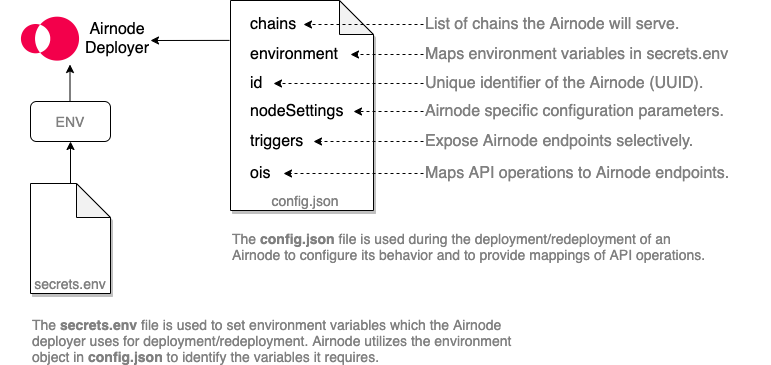
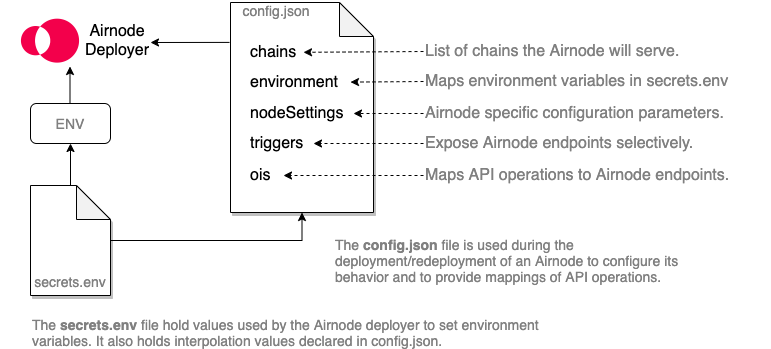
Change clients and requester: Issue 94

diff --git a/docs/next/grp-providers/tutorial/airnode-starter.md b/docs/next/grp-providers/tutorial/airnode-starter.md
@@ -10,9 +10,10 @@ title: Airnode starter
 
 > A starter project for deploying an Airnode and making requests to it
 
-<Todo>
-<p>This doc is not usable at this time. Waiting on the updated dev README.md. This doc is out of sync with the flow of pre-alpha which probably has a better flow.</p>
-</Todo>
+<Fix>
+<p>This doc is not usable at this time. Waiting on the updated dev README.md. This doc is out of sync with the flow of pre-alpha which probably has a better flow.
+</p>
+</Fix>
 
 See the code [here](https://github.com/api3dao/airnode-starter/tree/pre-alpha)
 
@@ -170,42 +171,41 @@ Otherwise, it will use the `airnodeId` of the Airnode that we have deployed give
 Note that the `endpointId` will be the same either way because it is [derived from the OIS and endpoint name](https://api3dao.github.io/api3-docs/pre-alpha/protocols/request-response/endpoint.html#endpointid).
 
 ### Create a requester
-
-Run the following to create an on-chain [requester](https://api3dao.github.io/api3-docs/pre-alpha/protocols/request-response/requester.html) record:
+<Fix>This goes away.</Fix>
+~~Run the following to create an on-chain [requester](https://api3dao.github.io/api3-docs/pre-alpha/protocols/request-response/requester.html) record:~~
 ```sh
 npm run create-requester
 ```
 
-You can use this requester denoted with an index in other projects as well.
-Note that `requesterIndex` is chain-specific, so you will have to create another requester record on other chains.
+~~You can use this requester denoted with an index in other projects as well.
+Note that `requesterIndex` is chain-specific, so you will have to create another requester record on other chains.~~
 
-### Deploy the client contract
+### Deploy the requester contract
 
-Run the following to deploy `ExampleClient.sol`:
+Run the following to deploy `ExampleRequester.sol`:
 ```sh
-npm run deploy-client
+npm run deploy-requester
 ```
 
-### Endorse the client
+### Sponsor the requester
 
-Run the following to [endorse](https://api3dao.github.io/api3-docs/pre-alpha/protocols/request-response/endorsement.html) your deployed [client](https://api3dao.github.io/api3-docs/pre-alpha/protocols/request-response/client.html) contract using the requester you have created:
+Run the following to [sponsor](../../grp-developers/requesters-sponsors.md) your deployed [requester](../../grp-developers/requesters-sponsors.md) contract using the requester you have created:
 ```sh
-npm run endorse-client
+npm run sponsor-requester
 ```
 
-### Derive and fund the designated wallet
+### Derive and fund the sponsor wallet
 
-First run the following to derive the [designated wallet](https://api3dao.github.io/api3-docs/pre-alpha/protocols/request-response/designated-wallet.html) for the provider–requester pair:
+First run the following to derive the [sponsor wallet](../../reference/protocols/request-response/sponsor-wallet.md) for the provider–requester pair:
 ```sh
-npm run derive-designated-wallet-address
+npm run derive-sponsor-wallet-address
 ```
-and then fund this designated wallet with 0.1 ETH:
+and then fund this sponsor wallet with 0.1 ETH:
 ```sh
-npm run fund-designated-wallet
+npm run fund-sponsor-wallet
 ```
 
-The requests that the client contract will make will be funded by this 0.1 ETH.
-Note that you may have to run `fund-designated-wallet` again if you make too many requests and use up this 0.1 ETH (very unlikely).
+The requests that the requester contract will make will be funded by this 0.1 ETH. Note that you may have to run `fund-sponsor-wallet` again if you make too many requests and use up this 0.1 ETH (very unlikely).
 
 ### Make a request
 
@@ -221,18 +221,17 @@ You can see the API docs to find out which coin IDs are supported.
 
 ## Conclusion
 
-You deployed an Airnode, made a request to it and received the response at the contract.
-If you want to learn more, see the following resources:
+You deployed an Airnode, made a request to it and received the response at the requester contract. If you want to learn more, see the following resources:
 
 - [API3 whitepaper](https://github.com/api3dao/api3-whitepaper) will give you a broad overview of the project
 - [Blog (Medium) posts](../../blog-posts.md) are a more digestible version of the whitepaper
 - [@api3/airnode-admin](https://github.com/api3dao/airnode/tree/pre-alpha/packages/admin) lets you interact with the Airnode contract (to create a request, endorse a client, etc.) using a CLI tool
-- [Airnode client examples](https://github.com/api3dao/airnode-client-examples/tree/pre-alpha) demonstrate different request patterns that the Airnode protocol supports (for example, we used a full request in this starter project)
+<Fix>Need new URL to requester examples.</Fix>
+- [Airnode requester examples](https://github.com/api3dao/airnode-client-examples/tree/pre-alpha) demonstrate different request patterns that the Airnode protocol supports (for example, we used a full request in this starter project)
 
-## Taking down your Airnode
+## Remove the Airnode
 
-It is very unlikely for you to forget to take down your Airnode because it is designed to be *set-and-forget*.
-When you are done with this project, go to `config/` as your working directory and use the command below where `$RECEIPT_FILENAME` is replaced with the name of your receipt file ending with `.receipt.json` (you can refer to our [Docker instructions](https://github.com/api3dao/airnode/blob/pre-alpha/Docker.md) for more information)
+When you are done with the airnode starter project, set `config/` as the working directory and use the command below where `$RECEIPT_FILENAME` is replaced with the name of your receipt file ending with `.receipt.json`. See [Using Docker](../using-docker.md) for more information) or [Deployer CLI Commands](../../reference/deployer-commands.md) for more information on hte deployer.
 
 ```sh
 docker run -it --rm \

diff --git a/docs/next/grp-providers/guides/provider/setting-authorizers.md b/docs/next/grp-providers/guides/provider/setting-authorizers.md
@@ -13,23 +13,17 @@ Complete the following before settings authorizers.
 - [Configuring Airnode](configuring-airnode.md)
 - [Deploying Airnode](deploying-airnode.md)
   
-When you deployed your Airnode a receipt file was generated. In it is the `airnodeId`. Requesters use your `airnodeId` and an `endpointId` to make requests to your Airnode endpoints. However, you probably do not want to serve your Airnode endpoints publicly.
+When you deployed your Airnode a receipt file was generated. In it is the `airnodeId`. Sponsors (via their sponsored requesters) use your `airnodeId` and an `endpointId` to make requests to your Airnode endpoints. However, you probably do not want to serve your Airnode endpoints publicly.
 
-- Only serve your own client contracts
-- Only serve requesters who have made a subscription payment
-- Only serve requesters who have gone through KYC
+- Only serve your own [requester contracts](../../../grp-developers/requesters-sponsors.md)
+- Only serve sponsors who have made a subscription payment
+- Only serve sponsors who have gone through KYC
 
 In this guide, we will explain how you can achieve this.
 
 ## `authorizers`
 
-<Todo>
-
-Need to track down the EndpointStore.sol contract, it does not appear in the link below. 
-
-Also who built/builds the Authorizer contract(s).
-
-</Todo>
+<Fix>Need to track down the EndpointStore.sol contract, it does not appear in the link below. Also who built/builds the Authorizer contract(s).</Fix>
 
 [EndpointStore.sol](../../../reference/protocols/request-response/general-structure.md#endpointstore-sol) keeps a list of [authorizer](../../../reference/protocols/request-response/authorizer.md) addresses for each `airnodeId`–`endpointId` pair. An authorizer is a contract that Airnode calls to check if it should respond to a specific request. It can enforce any kind of authorization policy that one could implement as a contract.
 
@@ -39,11 +33,7 @@ A newly created Airnode defaults to **Deny All** for all its endpoints. The auth
 
 ## Allow all
 
-<Todo>
-
-Pretty sure the airnodeAdmin should be airnodeAdmin. Just need to find the code behind all this for version 0.1.0. Same for providerId as airnodeId.
-
-</Todo>
+<Fix>Pretty sure the airnodeAdmin should be airnodeAdmin. Just need to find the code behind all this for version 0.1.0. Same for providerId as airnodeId.</Fix>
 
 The simplest authorization policy is opening the endpoint to the public, so let us see how to do that first. Authorizers being set to `[0]` means that all requests made to it will be authorized (i.e., will be responded to by Airnode). Only the `airnodeAdmin` of a provider can update the authorizers of its endpoints. Therefore, you will need to make a transaction using the provider admin address (that you have set in `config.json` as `airnodeAdminForRecordCreation`) to [EndpointStore.sol](../../../reference/protocols/request-response/general-structure.md#endpointstore-sol). In JS (using ethers.js):
 
@@ -75,5 +65,4 @@ If you would like to contribute to this set of authorizer contracts, please join
 
 ## Conclusion
 
-Your Airnode is completely set up now.
-The following guides will be on how a requester would be able to make requests to it.
+The Airnode is completely set up. See [Calling an Airnode](../../../grp-developers/call-an-airnode.md) to learn how requests are made to it.

diff --git a/docs/next/grp-developers/fees.md b/docs/next/grp-developers/fees.md
@@ -10,34 +10,36 @@ title: Fees
 <Fix>This doc needs updating once the new repo README(s) are ready for the Airnode (beta) re-writes.
 </Fix>
 
-A requester will have three types of fees to consider.
+There are some one-time setup/maintenance costs and the ongoing costs to call an Airnode.
 
-1. Requester Record Fees: transaction gas costs to maintain a requester record and client contract endorsements.
-2. Airnode Execution Fees: transaction gas costs incurred funding Airnode designated wallets and when executing  Airnodes.
-3. API Provider Fees: subscriptions with API providers.
+<!--
+1. Sponsorships: gas costs to sponsor a requester.
+2. Airnodes: gas costs incurred for the execution of Airnode in response to a request.
+3. API Provider: subscriptions with API providers.
+-->
 
-![fees-requester](../assets/images/fees-requester.png)
+<!--![fees-requester](../assets/images/fees-requester.png)-->
 
-## Requester Record Fees
+## Requesters
 
-Fees are encountered when managing a requester's record, client contract endorsements and more. These are per call transaction gas costs and are relatively small. Funds will come from the wallet mnemonic that the requester supplies when calling certain [admin commands](../reference/cli-commands.md) as shown below. 
+Fees are encountered when sponsoring a requester. These are per call transaction gas costs and are relatively small. Funds will come from the wallet mnemonic that the sponsor supplies when calling certain [admin commands](../reference/cli-commands.md) as shown below. 
 
-- [create-requester](../reference/cli-commands.md#create-requester)
-- [set-requester-admin](../reference/cli-commands.md#set-requester-admin)
-- [endorse-client](../reference/cli-commands.md#endorse-client)
-- [unendorse-client](../reference/cli-commands.md#unendorse-client)
-- [request-withdrawal](../reference/cli-commands.md#request-withdrawal)
+- [sponsor-requester](../reference/cli-commands.md#sponsor-requester)
+- [unsponsor-requester](../reference/cli-commands.md#unsponsor-requester)
 
 
-## Airnode Fees
+## Airnodes
 
-Fees are encountered, as transaction gas costs, when funding a requester's designated wallet for an Airnode and when executing the Airnode.
+Fees are encountered, as transaction gas costs, when funding a requester's sponsor wallet for an Airnode and when executing the Airnode in response to a request.
 
-- [Funding](sponsorship.md#part-3-funding-airnodes) a designated wallet.
-  A designated wallet is funded manually by a requester using their preferred wallet management tool such as MetaMask.
+- Funding a sponsor wallet:
+  A sponsor wallet is funded manually by a sponsor using their preferred wallet management tool such as MetaMask.
 
-- [Executing](../grp-developers/call-an-airnode.md) an Airnode.
-  Transaction gas fees are withdrawn from the designated wallet of the requester related to the Airnode being called. 
+- [request-withdrawal](../reference/cli-commands.md#request-withdrawal) from a sponsor wallet:
+  Transaction gas fees ar incurred to remove a sponsor's funds from a sponsor wallet.
+
+- [Executing](../grp-developers/call-an-airnode.md) an Airnode:
+  Transaction gas fees are withdrawn from the sponsor wallet related to the Airnode being called by the sponsored requester. 
 
 <SponsorWalletWarning/>
 

diff --git a/docs/next/grp-providers/guides/provider/api-integration.md b/docs/next/grp-providers/guides/provider/api-integration.md
@@ -15,7 +15,7 @@ A successful integration of an API with an Airnode requires the mapping of each 
 
 > ![api-integration-ois](../../../assets/images/api-integration-ois.png)
 
-OIS is a mapping of API operations, such as  `GET /token/{id}`, to Airnode endpoints. When a client contract calls an AirnodeRRP contract request function, such as `makeRequest(..., callData)`, the callData is communicated to the off-chain Airnode which uses OIS mappings to translate the callData into a valid HTTP request for the appropriate API operation.
+OIS is a mapping of API operations, such as  `GET /token/{id}`, to Airnode endpoints. When a requester contract calls an AirnodeRRP contract request function, such as `makeRequest(..., callData)`, the callData is communicated to the off-chain Airnode which uses OIS mappings to translate the callData into a valid HTTP request for the appropriate API operation.
 
 Therefore, only thing needed to integrate an API to Airnode is to create an OIS json object which lives in an Airnode's config.json file. This guide is an instructive approach to creating an OIS. As a point of reference, refer to [Oracle Integration Specifications (OIS)](../../../reference/specifications/ois.md) in the Technology section of these docs for additional input and understanding. It may be useful, but not necessary, to reference the [OAS 3.0.3 docs](https://github.com/OAI/OpenAPI-Specification/blob/master/versions/3.0.3.md) about fields related to API specifications.
 
@@ -348,7 +348,7 @@ If the API you are integrating is publicly accessible, you can remove all securi
 
 ## Step 3: Specifying Airnode Endpoints
 
-An Airnode endpoint is a service that Airnode exposes to on-chain clients. It maps to an API operation, but the nature of this mapping is customizable. It is the integrator's job to define what this service is.
+An Airnode endpoint is a service that Airnode exposes to on-chain requesters. It maps to an API operation, but the nature of this mapping is customizable. It is the integrator's job to define what this service is.
 
 For example, if your API operation returns an asset price given its ticker (e.g., `BTC`), you can specify the endpoint such that the requester provides the ticker as a parameter. The resulting endpoint would be a general one that returns prices for any kind of asset. On the other hand, you can hardcode `BTC` as the asset whose price will be returned (using [fixed operation parameters](./api-integration.md#fixedoperationparameters)), which would make your endpoint a specific one that only returns the BTC price.
 
@@ -375,12 +375,6 @@ In the OIS template there is a fixed operation parameter under `endpoints.*.fixe
 An Airnode endpoint can have multiple `fixedOperationParameters`. An API operation parameter cannot be in both `endpoints.*.fixedOperationParameters` and `endpoints.*.parameters`.
 
 #### reservedParameters
-
-<Todo>
-
-The explanation of reservedParameters needs work. It jumps the user around. At least explain what they are in detail before making the jumps.
-
-</Todo>
 
 The requester can provide some parameters that are not mapped to API operation parameters.
 These parameters are called "reserved parameters", and their names start with an underscore.

diff --git a/docs/next/grp-developers/requesters-sponsors.md b/docs/next/grp-developers/requesters-sponsors.md
@@ -11,7 +11,7 @@ As a developer it helps to understand what a **requester** is and what a **spons
 
 ## What is a Requester?
 
-The term **requester** is important to remember. It is mentioned in these docs and in the GitHub code. When requester is mentioned, the reference is to your smart contract that calls an Airnode. 
+The term **requester** is important to remember. It is mentioned in these docs and in the GitHub code. When requester is mentioned, the reference is to your smart contract that calls an Airnode. See [requester](../reference/protocols/request-response/requester.md) in the Reference section. 
 
 > ![image](../assets/images/requesters-sponsors-1.png)
 
@@ -19,7 +19,7 @@ As an example see the `myContract.sol` contract in the diagram within the [Overv
 
 ## What is a Sponsor?
 
-Equally important is the term **sponsor** also found throughout the docs and code. A sponsor is an entity such as yourself, an organization, etc.
+Equally important is the term **sponsor** also found throughout the docs and code. A sponsor is an entity such as yourself, an organization, etc. See [sponsor](../reference/protocols/request-response/sponsor.md) in the Reference section.
 
 As a sponsor you will use the address of an Ethereum account _(called a sponsorAddress)_ to "derive a sponsor wallet" for an Airnode and then "sponsor a requester" with the same sponsorAddress. 
 

diff --git a/docs/next/grp-providers/guides/provider/deploying-airnode.md b/docs/next/grp-providers/guides/provider/deploying-airnode.md
@@ -7,7 +7,7 @@ title: Deploying Airnode
 <TocHeader />
 <TOC class="table-of-contents" :include-level="[2,3]" />
 
-<Todo title="Airnode packages are morphing for 0.1.0">
+<Fix>
 As of 08-18-2021 the Airnode packages are still changing.
 
 To get the Airnode repo to build on a Mac there is a change.
@@ -33,7 +33,7 @@ Next make changes to `packages/deployer/src/handlers/aws/index.ts`
 
 After these changes there will be 2 warnings. Not sure of their impact.
 
-</Todo>
+</Fix>
 
 
 
@@ -78,11 +78,7 @@ Here is an [example file](../../../reference/templates/secrets-env.md) that is l
 
 ## Deployment
 
-<Todo>
-
-Deployment" needs to be updated when vrs 0.1.0 is ready. Not sure which Airnode repo branch to pull from.
-
-</Todo>
+<Fix>Deployment" needs to be updated when vrs 0.1.0 is ready. Not sure which Airnode repo branch to pull from.</Fix>
 
 Get the `config.json` and `security.json` files you have created while [configuring your Airnode](configuring-airnode.md), your `.env` file with your [cloud provider credentials](deploying-airnode.md#creating-cloud-credentials), and place these three files in the same directory.
 Then, in this same directory, run the following command.
